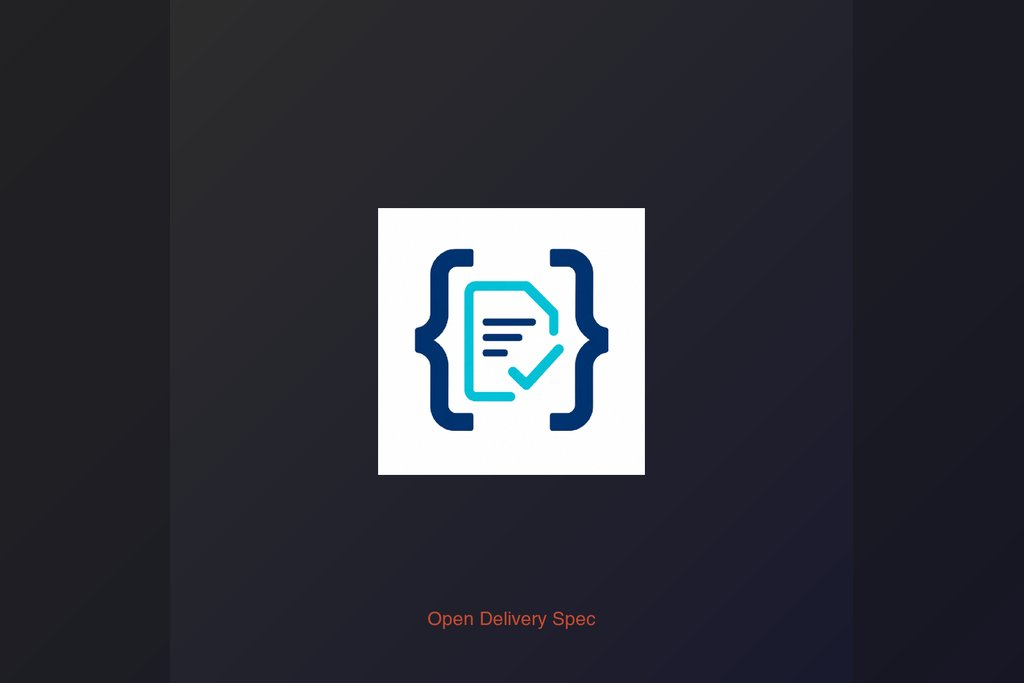
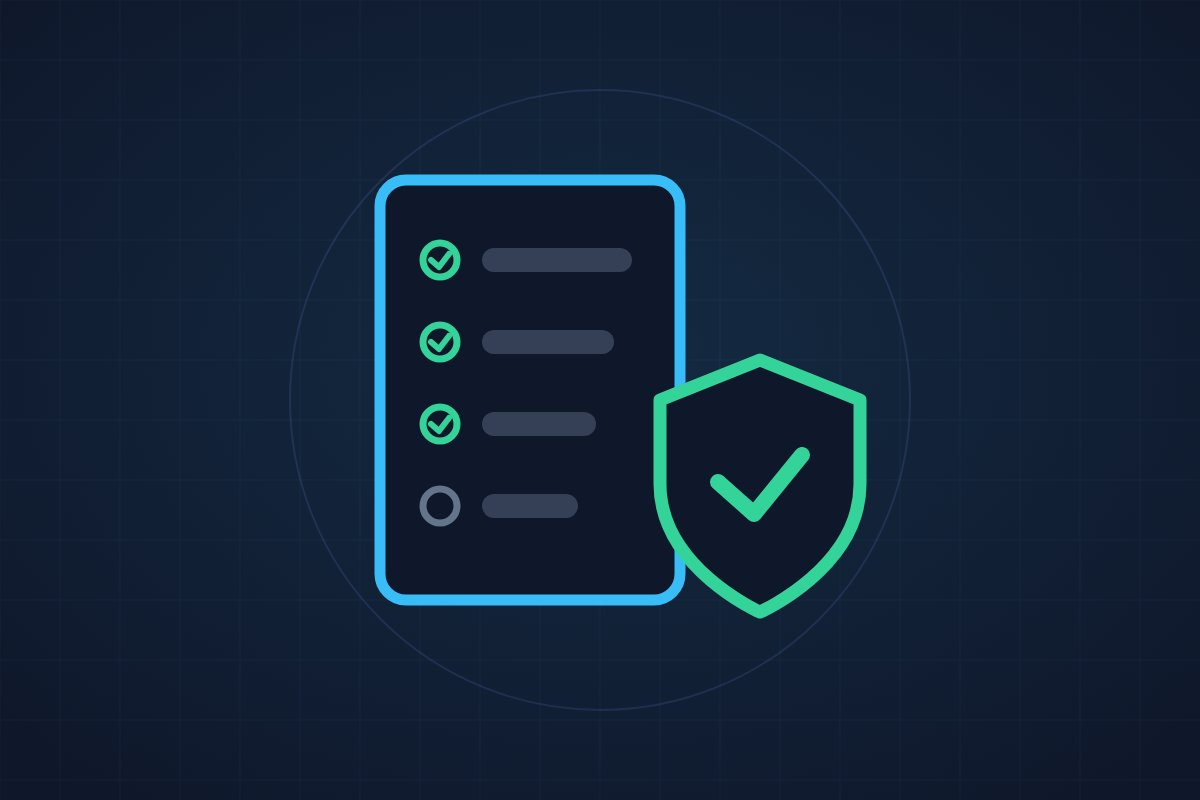
feat(portfolio): 统一 portfolio 项目封面设计 (#409)

diff --git a/.github/scripts/gen_portfolio_cover.py b/.github/scripts/gen_portfolio_cover.py
@@ -1,0 +1,275 @@
+#!/usr/bin/env python3
+"""Generate the portfolio project covers.
+
+Unlike post covers (gen_cover.py, seeded and random), these are designed by
+hand, one per project, because each portfolio card is a product: the artwork
+depicts what the project actually does — lint findings for cpp-linter, a branch
+diagram for conventional-branch, maturity steps for devops-maturity.
+
+What they share is the design language, and that is what makes the page read as
+one body of work: the same dark ground, the same faint grid, one accent palette,
+the same stroke weight and rounded caps, and no text baked into the image (the
+card supplies the bilingual title).
+
+    python3 .github/scripts/gen_portfolio_cover.py           # all projects
+    python3 .github/scripts/gen_portfolio_cover.py cpp-linter
+"""
+
+import os
+import sys
+
+sys.path.insert(0, os.path.dirname(os.path.abspath(__file__)))
+from gen_cover import H, W, render  # noqa: E402  (shared Chromium pipeline)
+
+# One palette for the whole set — unity is the point.
+BG = "#0f172a"
+BLUE = "#38bdf8"    # primary: structure, subjects
+INDIGO = "#818cf8"  # secondary structure
+OK = "#34d399"      # the "it passed" accent every project earns
+ERR = "#f87171"     # the defect being caught
+WARN = "#fbbf24"    # sparks, highlights
+MUTE = "#64748b"    # neutral scaffolding
+
+SW = 11  # base stroke width
+
+
+def scaffold():
+    p = [
+        f'<svg xmlns="http://www.w3.org/2000/svg" width="{W}" height="{H}" viewBox="0 0 {W} {H}">',
+        f'<defs><radialGradient id="g" cx="50%" cy="45%" r="70%">'
+        f'<stop offset="0%" stop-color="{BLUE}" stop-opacity="0.12"/>'
+        f'<stop offset="100%" stop-color="{BLUE}" stop-opacity="0"/></radialGradient></defs>',
+        f'<rect width="{W}" height="{H}" fill="{BG}"/>',
+        f'<rect width="{W}" height="{H}" fill="url(#g)"/>',
+        f'<g stroke="{BLUE}" stroke-width="1" opacity="0.05">',
+    ]
+    for x in range(0, W, 60):
+        p.append(f'<line x1="{x}" y1="0" x2="{x}" y2="{H}"/>')
+    for y in range(0, H, 60):
+        p.append(f'<line x1="0" y1="{y}" x2="{W}" y2="{y}"/>')
+    p.append("</g>")
+    p.append(f'<circle cx="600" cy="400" r="310" fill="none" stroke="{INDIGO}" stroke-width="2" opacity="0.14"/>')
+    return p
+
+
+def _check(p, cx, cy, size, color=OK, sw=16):
+    s = size
+    p.append(
+        f'<path d="M{cx - s:.0f},{cy:.0f} L{cx - s * 0.15:.0f},{cy + s * 0.75:.0f} L{cx + s:.0f},{cy - s * 0.65:.0f}" '
+        f'fill="none" stroke="{color}" stroke-width="{sw}" stroke-linecap="round" stroke-linejoin="round"/>'
+    )
+
+
+def _badge(p, cx, cy, r, color=OK):
+    p.append(f'<circle cx="{cx}" cy="{cy}" r="{r}" fill="{BG}" stroke="{color}" stroke-width="{SW + 2}"/>')
+    _check(p, cx, cy, r * 0.42, color)
+
+
+def _window(p, x, y, w, h, color=BLUE):
+    """Editor-window frame: rounded rect, header rule, two window dots."""
+    p.append(f'<rect x="{x}" y="{y}" width="{w}" height="{h}" rx="24" fill="{BG}" stroke="{color}" stroke-width="{SW}"/>')
+    p.append(f'<line x1="{x}" y1="{y + 64}" x2="{x + w}" y2="{y + 64}" stroke="{color}" stroke-width="6" opacity="0.55"/>')
+    p.append(f'<circle cx="{x + 36}" cy="{y + 32}" r="9" fill="{color}" opacity="0.9"/>')
+    p.append(f'<circle cx="{x + 68}" cy="{y + 32}" r="9" fill="{MUTE}"/>')
+
+
+# --- one function per project -------------------------------------------------
+
+def cpp_linter(p):
+    """Code lines, one defect flagged, the run ends green."""
+    _window(p, 300, 170, 520, 440)
+    rows = [(360, 300, MUTE), (360, 380, MUTE), (360, 240, ERR), (360, 340, MUTE), (360, 200, MUTE)]
+    y = 290
+    for x, w, col in rows:
+        op = "0.95" if col == ERR else "0.45"
+        p.append(f'<rect x="{x}" y="{y}" width="{w}" height="30" rx="15" fill="{col}" opacity="{op}"/>')
+        if col == ERR:
+            zig = " ".join(f"{x + i * 20},{y + 48 + (6 if i % 2 else 0)}" for i in range(13))
+            p.append(f'<polyline points="{zig}" fill="none" stroke="{ERR}" stroke-width="6" stroke-linecap="round"/>')
+        y += 66
+    _badge(p, 850, 520, 105)
+
+
+def commit_check(p):
+    """A commit line whose next commit must pass through the shield."""
+    p.append(f'<line x1="250" y1="400" x2="950" y2="400" stroke="{MUTE}" stroke-width="10" opacity="0.6"/>')
+    for x in (330, 450, 570):
+        p.append(f'<circle cx="{x}" cy="400" r="26" fill="{BLUE}"/>')
+        p.append(f'<circle cx="{x}" cy="400" r="26" fill="none" stroke="{BG}" stroke-width="6"/>')
+    p.append(f'<circle cx="900" cy="400" r="20" fill="{MUTE}"/>')
+    p.append(
+        f'<path d="M730,275 l105,42 v88 c0,88 -105,135 -105,135 s-105,-47 -105,-135 v-88 z" '
+        f'fill="{BG}" stroke="{OK}" stroke-width="{SW + 2}" stroke-linejoin="round"/>'
+    )
+    _check(p, 730, 405, 46)
+
+
+def conventional_branch(p):
+    """The git graph itself: main line, a named branch that comes home."""
+    p.append(f'<path d="M270,500 H930" fill="none" stroke="{MUTE}" stroke-width="{SW}" opacity="0.7"/>')
+    p.append(
+        f'<path d="M390,500 C460,500 460,300 540,300 H720 C800,300 800,500 870,500" '
+        f'fill="none" stroke="{BLUE}" stroke-width="{SW}"/>'
+    )
+    p.append(
+        f'<path d="M470,500 C520,500 520,620 585,620 H700" fill="none" stroke="{INDIGO}" '
+        f'stroke-width="{SW - 2}" opacity="0.8" stroke-linecap="round"/>'
+    )
+    for x, y, col in ((320, 500, MUTE), (390, 500, BLUE), (470, 500, INDIGO), (870, 500, OK)):
+        p.append(f'<circle cx="{x}" cy="{y}" r="24" fill="{col}"/>')
+    p.append(f'<circle cx="870" cy="500" r="40" fill="none" stroke="{OK}" stroke-width="5" opacity="0.45"/>')
+    for x in (540, 630, 720):
+        p.append(f'<circle cx="{x}" cy="300" r="24" fill="{BLUE}"/>')
+    p.append(f'<circle cx="700" cy="620" r="20" fill="{INDIGO}" opacity="0.9"/>')
+
+
+def devops_maturity(p):
+    """A staircase of maturity levels, the team partway up."""
+    step_w, step_h = 128, 88
+    x0, y0 = 300, 620
+    for i in range(5):
+        x = x0 + i * step_w
+        y = y0 - (i + 1) * step_h
+        col = BLUE if i == 2 else MUTE
+        op = "0.9" if i == 2 else "0.35"
+        p.append(
+            f'<rect x="{x}" y="{y}" width="{step_w - 10}" height="{y0 - y}" rx="14" fill="{col}" opacity="{op}"/>'
+        )
+    # the climber: dots up the steps, current position ringed, summit flagged
+    for i in range(3):
+        cx = x0 + i * step_w + (step_w - 10) / 2
+        cy = y0 - (i + 1) * step_h - 34
+        if i == 2:
+            p.append(f'<circle cx="{cx:.0f}" cy="{cy}" r="20" fill="{OK}"/>')
+            p.append(f'<circle cx="{cx:.0f}" cy="{cy}" r="36" fill="none" stroke="{OK}" stroke-width="5" opacity="0.45"/>')
+        else:
+            p.append(f'<circle cx="{cx:.0f}" cy="{cy}" r="13" fill="{OK}" opacity="0.55"/>')
+    top_cx = x0 + 4 * step_w + (step_w - 10) / 2
+    top_cy = y0 - 5 * step_h
+    p.append(f'<line x1="{top_cx:.0f}" y1="{top_cy - 24}" x2="{top_cx:.0f}" y2="{top_cy - 110}" stroke="{WARN}" stroke-width="8" stroke-linecap="round"/>')
+    p.append(f'<path d="M{top_cx:.0f},{top_cy - 110} h64 l-20,24 20,24 h-64 z" fill="{WARN}" opacity="0.9"/>')
+
+
+def explain_error(p):
+    """A build error handed to the model, an explanation handed back."""
+    p.append(f'<circle cx="360" cy="400" r="96" fill="{BG}" stroke="{ERR}" stroke-width="{SW + 2}"/>')
+    for dx, dy in ((-1, -1), (1, -1)):
+        p.append(
+            f'<line x1="{360 - 38 * dx}" y1="{400 - 38 * dy}" x2="{360 + 38 * dx}" y2="{400 + 38 * dy}" '
+            f'stroke="{ERR}" stroke-width="15" stroke-linecap="round"/>'
+        )
+    p.append(f'<line x1="490" y1="400" x2="620" y2="400" stroke="{MUTE}" stroke-width="10" stroke-linecap="round"/>')
+    p.append(f'<path d="M600,372 L648,400 L600,428" fill="none" stroke="{MUTE}" stroke-width="10" stroke-linecap="round" stroke-linejoin="round"/>')
+    p.append(
+        f'<path d="M690,290 h230 a28,28 0 0 1 28,28 v130 a28,28 0 0 1 -28,28 h-130 l-58,56 v-56 h-42 '
+        f'a28,28 0 0 1 -28,-28 v-130 a28,28 0 0 1 28,-28 z" fill="{BG}" stroke="{OK}" stroke-width="{SW}"/>'
+    )
+    _check(p, 806, 372, 40)
+    for cx, cy, r in ((950, 250, 5), (975, 225, 8), (1000, 260, 4)):
+        p.append(f'<circle cx="{cx}" cy="{cy}" r="{r}" fill="{WARN}"/>')
+
+
+def gitstats(p):
+    """Repository history rendered as the report it becomes."""
+    for i, h in enumerate((150, 260, 200, 330)):
+        x = 320 + i * 104
+        col = OK if i == 3 else BLUE
+        op = "0.9" if i == 3 else str(0.45 + i * 0.12)
+        p.append(f'<rect x="{x}" y="{620 - h}" width="66" height="{h}" rx="14" fill="{col}" opacity="{op}"/>')
+    p.append(f'<circle cx="850" cy="290" r="96" fill="none" stroke="{MUTE}" stroke-width="26" opacity="0.35"/>')
+    p.append(
+        f'<circle cx="850" cy="290" r="96" fill="none" stroke="{BLUE}" stroke-width="26" '
+        f'stroke-dasharray="241 362" stroke-linecap="round" transform="rotate(-90 850 290)"/>'
+    )
+    p.append(f'<line x1="300" y1="680" x2="900" y2="680" stroke="{MUTE}" stroke-width="8" opacity="0.5"/>')
+    for x in (340, 420, 500, 580, 660, 740):
+        p.append(f'<circle cx="{x}" cy="680" r="12" fill="{INDIGO}" opacity="0.85"/>')
+
+
+def clang_tools_distributions(p):
+    """One toolchain fanned out into three ways to ship it."""
+    p.append(f'<rect x="270" y="330" width="150" height="140" rx="26" fill="{BG}" stroke="{BLUE}" stroke-width="{SW}"/>')
+    p.append(f'<path d="M330,370 L305,400 L330,430" fill="none" stroke="{BLUE}" stroke-width="10" stroke-linecap="round" stroke-linejoin="round"/>')
+    p.append(f'<path d="M360,370 L385,400 L360,430" fill="none" stroke="{BLUE}" stroke-width="10" stroke-linecap="round" stroke-linejoin="round"/>')
+    for ty in (210, 400, 590):
+        p.append(f'<path d="M430,400 C540,400 540,{ty} 660,{ty}" fill="none" stroke="{MUTE}" stroke-width="8" opacity="0.7"/>')
+    # docker: container of blocks
+    p.append(f'<rect x="680" y="150" width="180" height="120" rx="22" fill="{BG}" stroke="{INDIGO}" stroke-width="{SW}"/>')
+    for i in range(3):
+        p.append(f'<rect x="{706 + i * 44}" y="196" width="32" height="32" rx="7" fill="{INDIGO}" opacity="0.85"/>')
+    # static binary: terminal chevron + cursor
+    p.append(f'<rect x="680" y="340" width="180" height="120" rx="22" fill="{BG}" stroke="{BLUE}" stroke-width="{SW}"/>')
+    p.append(f'<path d="M712,375 L744,400 L712,425" fill="none" stroke="{BLUE}" stroke-width="10" stroke-linecap="round" stroke-linejoin="round"/>')
+    p.append(f'<line x1="762" y1="425" x2="820" y2="425" stroke="{BLUE}" stroke-width="10" stroke-linecap="round"/>')
+    # python wheel: ring with hub
+    p.append(f'<rect x="680" y="530" width="180" height="120" rx="22" fill="{BG}" stroke="{OK}" stroke-width="{SW}"/>')
+    p.append(f'<circle cx="770" cy="590" r="34" fill="none" stroke="{OK}" stroke-width="9"/>')
+    p.append(f'<circle cx="770" cy="590" r="8" fill="{OK}"/>')
+
+
+def open_delivery_spec(p):
+    """A spec checklist standing behind a governance shield."""
+    p.append(f'<rect x="380" y="180" width="300" height="420" rx="26" fill="{BG}" stroke="{BLUE}" stroke-width="{SW}"/>')
+    for i in range(4):
+        y = 260 + i * 82
+        col = OK if i < 3 else MUTE
+        p.append(f'<circle cx="440" cy="{y}" r="17" fill="none" stroke="{col}" stroke-width="7"/>')
+        if i < 3:
+            _check(p, 440, y, 9, col, 6)
+        p.append(f'<rect x="482" y="{y - 12}" width="{150 - i * 18}" height="24" rx="12" fill="{MUTE}" opacity="0.45"/>')
+    p.append(
+        f'<path d="M760,360 l100,40 v84 c0,84 -100,128 -100,128 s-100,-44 -100,-128 v-84 z" '
+        f'fill="{BG}" stroke="{OK}" stroke-width="{SW + 2}" stroke-linejoin="round"/>'
+    )
+    _check(p, 760, 482, 42)
+
+
+def pypistats(p):
+    """Published packages stacked, adoption climbing."""
+    for i, (w, col, op) in enumerate(((330, BLUE, "0.95"), (390, INDIGO, "0.55"), (450, MUTE, "0.35"))):
+        x = 600 - w / 2
+        y = 200 + i * 122
+        p.append(f'<rect x="{x:.0f}" y="{y}" width="{w}" height="94" rx="20" fill="{col}" opacity="{op}"/>')
+        p.append(f'<circle cx="{x + 47:.0f}" cy="{y + 47}" r="13" fill="{BG}" opacity="0.7"/>')
+    pts = "320,650 470,610 620,626 780,560 900,520"
+    p.append(f'<polyline points="{pts}" fill="none" stroke="{OK}" stroke-width="9" stroke-linecap="round" stroke-linejoin="round"/>')
+    p.append(f'<circle cx="900" cy="520" r="18" fill="{OK}"/>')
+
+
+COVERS = {
+    "cpp-linter": cpp_linter,
+    "commit-check": commit_check,
+    "conventional-branch": conventional_branch,
+    "devops-maturity": devops_maturity,
+    "explain-error-plugin": explain_error,
+    "gitstats": gitstats,
+    "clang-tools-distributions": clang_tools_distributions,
+    "atlassian-api-py": open_delivery_spec,  # bundle dir kept for URL stability; page is Open Delivery Spec
+    "pypistats": pypistats,
+}
+
+
+def build_svg(slug):
+    fn = COVERS.get(slug)
+    if fn is None:
+        raise KeyError(f"no cover design for {slug!r} — add one to COVERS")
+    p = scaffold()
+    fn(p)
+    p.append("</svg>")
+    return "\n".join(p)
+
+
+def main():
+    targets = sys.argv[1:] or sorted(COVERS)
+    for slug in targets:
+        try:
+            svg = build_svg(slug)
+        except KeyError as e:
+            sys.exit(str(e))
+        dest = os.path.join("content/portfolio", slug, "featured.jpg")
+        render(svg, dest)
+        print(f"  {dest}  ({os.path.getsize(dest) // 1024} KB)")
+
+
+if __name__ == "__main__":
+    main()

diff --git a/.github/scripts/tests/test_gen_portfolio_cover.py b/.github/scripts/tests/test_gen_portfolio_cover.py
@@ -1,0 +1,78 @@
+"""Tests for the portfolio cover set.
+
+The covers themselves are hand-designed, so there is nothing to assert about
+their looks — what these guard is the contract around them: every portfolio
+project has a design and every design has a project, the SVG is well-formed,
+and the set obeys the same rules as post covers (target size, no baked-in
+text, deterministic output).
+"""
+
+import os
+import sys
+import xml.etree.ElementTree as ET
+
+sys.path.insert(0, os.path.join(os.path.dirname(__file__), ".."))
+
+from gen_cover import H, W
+from gen_portfolio_cover import COVERS, build_svg
+
+REPO_ROOT = os.path.join(os.path.dirname(__file__), "..", "..", "..")
+PORTFOLIO = os.path.join(REPO_ROOT, "content", "portfolio")
+
+
+def portfolio_bundles():
+    return {
+        d
+        for d in os.listdir(PORTFOLIO)
+        if os.path.isdir(os.path.join(PORTFOLIO, d))
+        and os.path.exists(os.path.join(PORTFOLIO, d, "index.md"))
+    }
+
+
+class TestCoverRegistry:
+    def test_every_project_has_a_design(self):
+        # A new portfolio bundle without a cover design should fail loudly
+        # here, not ship with a missing or stale featured.jpg.
+        missing = portfolio_bundles() - set(COVERS)
+        assert not missing, f"portfolio bundles without a cover design: {sorted(missing)}"
+
+    def test_every_design_has_a_project(self):
+        # The reverse: a design for a deleted project is dead code, and its
+        # renders would land in a directory Hugo no longer reads.
+        orphaned = set(COVERS) - portfolio_bundles()
+        assert not orphaned, f"cover designs without a portfolio bundle: {sorted(orphaned)}"
+
+    def test_unknown_slug_raises(self):
+        try:
+            build_svg("no-such-project")
+        except KeyError:
+            pass
+        else:
+            raise AssertionError("expected KeyError for unknown slug")
+
+
+class TestSvgContract:
+    def test_declares_target_dimensions(self):
+        for slug in COVERS:
+            svg = build_svg(slug)
+            assert f'width="{W}"' in svg and f'height="{H}"' in svg, slug
+            assert f'viewBox="0 0 {W} {H}"' in svg, slug
+
+    def test_is_well_formed(self):
+        for slug in COVERS:
+            ET.fromstring(build_svg(slug))
+
+    def test_carries_no_text(self):
+        # Same rule as post covers: the card supplies the bilingual title, so
+        # text baked into the artwork could not be translated.
+        for slug in COVERS:
+            svg = build_svg(slug)
+            assert "<text" not in svg and "<tspan" not in svg, slug
+
+    def test_is_deterministic(self):
+        for slug in COVERS:
+            assert build_svg(slug) == build_svg(slug), slug
+
+    def test_designs_are_distinct(self):
+        rendered = {slug: build_svg(slug) for slug in COVERS}
+        assert len(set(rendered.values())) == len(rendered)
